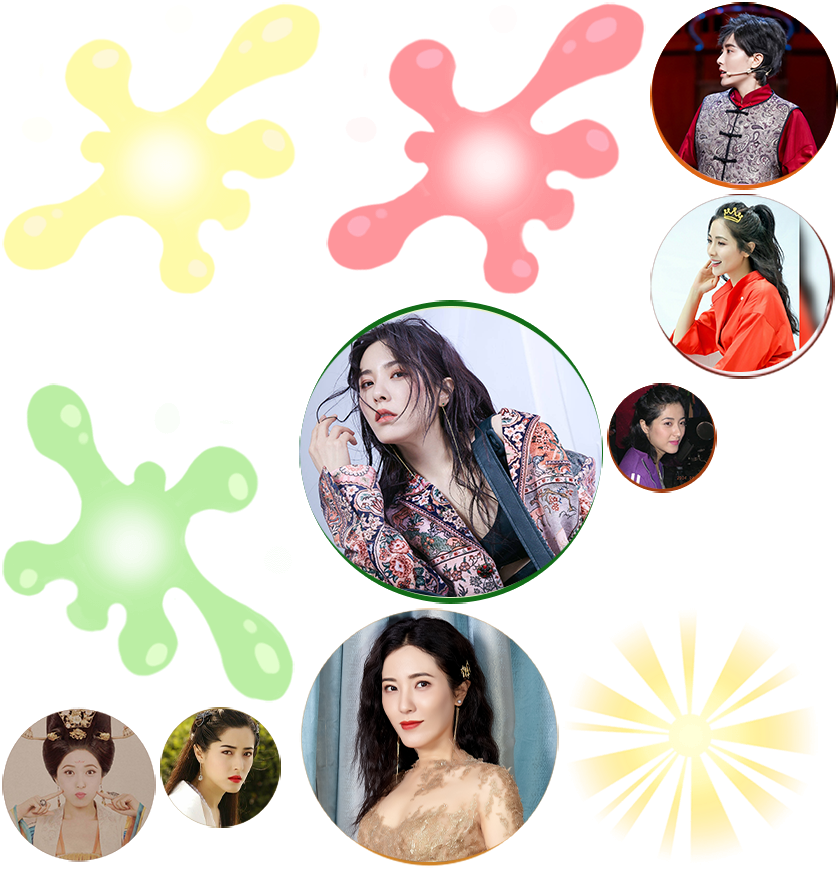
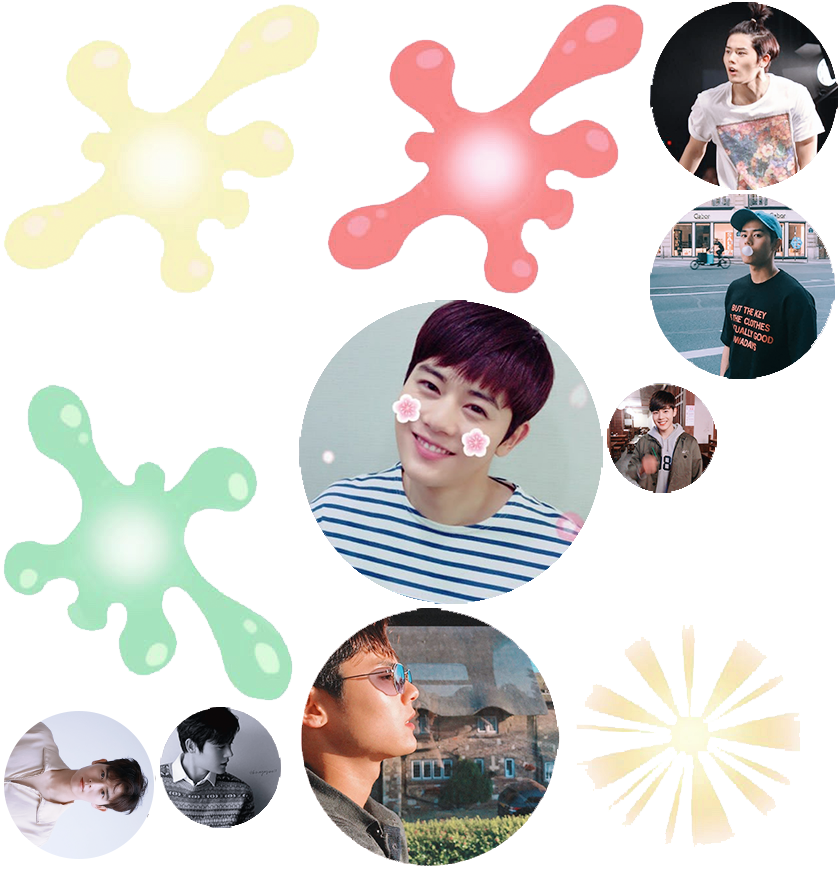
nitial commit

diff --git a/index.html b/index.html
@@ -4,7 +4,7 @@
 <head>
     <meta charset="utf-8">
 
-    <title>合成曾黎</title>
+    <title>合成金桐俊</title>
 
     <!--http://www.html5rocks.com/en/mobile/mobifying/-->
     <meta name="viewport" content="width=device-width,user-scalable=no,initial-scale=1, minimum-scale=1,maximum-scale=1" />
@@ -109,7 +109,7 @@
             //        console.log("window.navigator.language",window.navigator.language);
 
             if (window.navigator.language == "zh-CN" || window.navigator.language == "zh-cn") {
-                document.title = "合成曾黎";
+                document.title = "合成金桐俊";
             } 
 
 

diff --git a/README.md b/README.md
@@ -1,4 +1,3 @@
-# 合成大欧派（P家） #
+# 合成金桐俊（Square） #
 
-合成大西瓜的P家版本。合成顺序为：暗妃鲁咪蕾->古守血游->真白花音->铃宫铃->椎名菜羽->有栖Mana->乙女音->绯赤艾莉欧->花园Serena->梦乃栞->紫桃爱音。如对合成顺序有异议，请提交申请与我们一同迫害。
 
